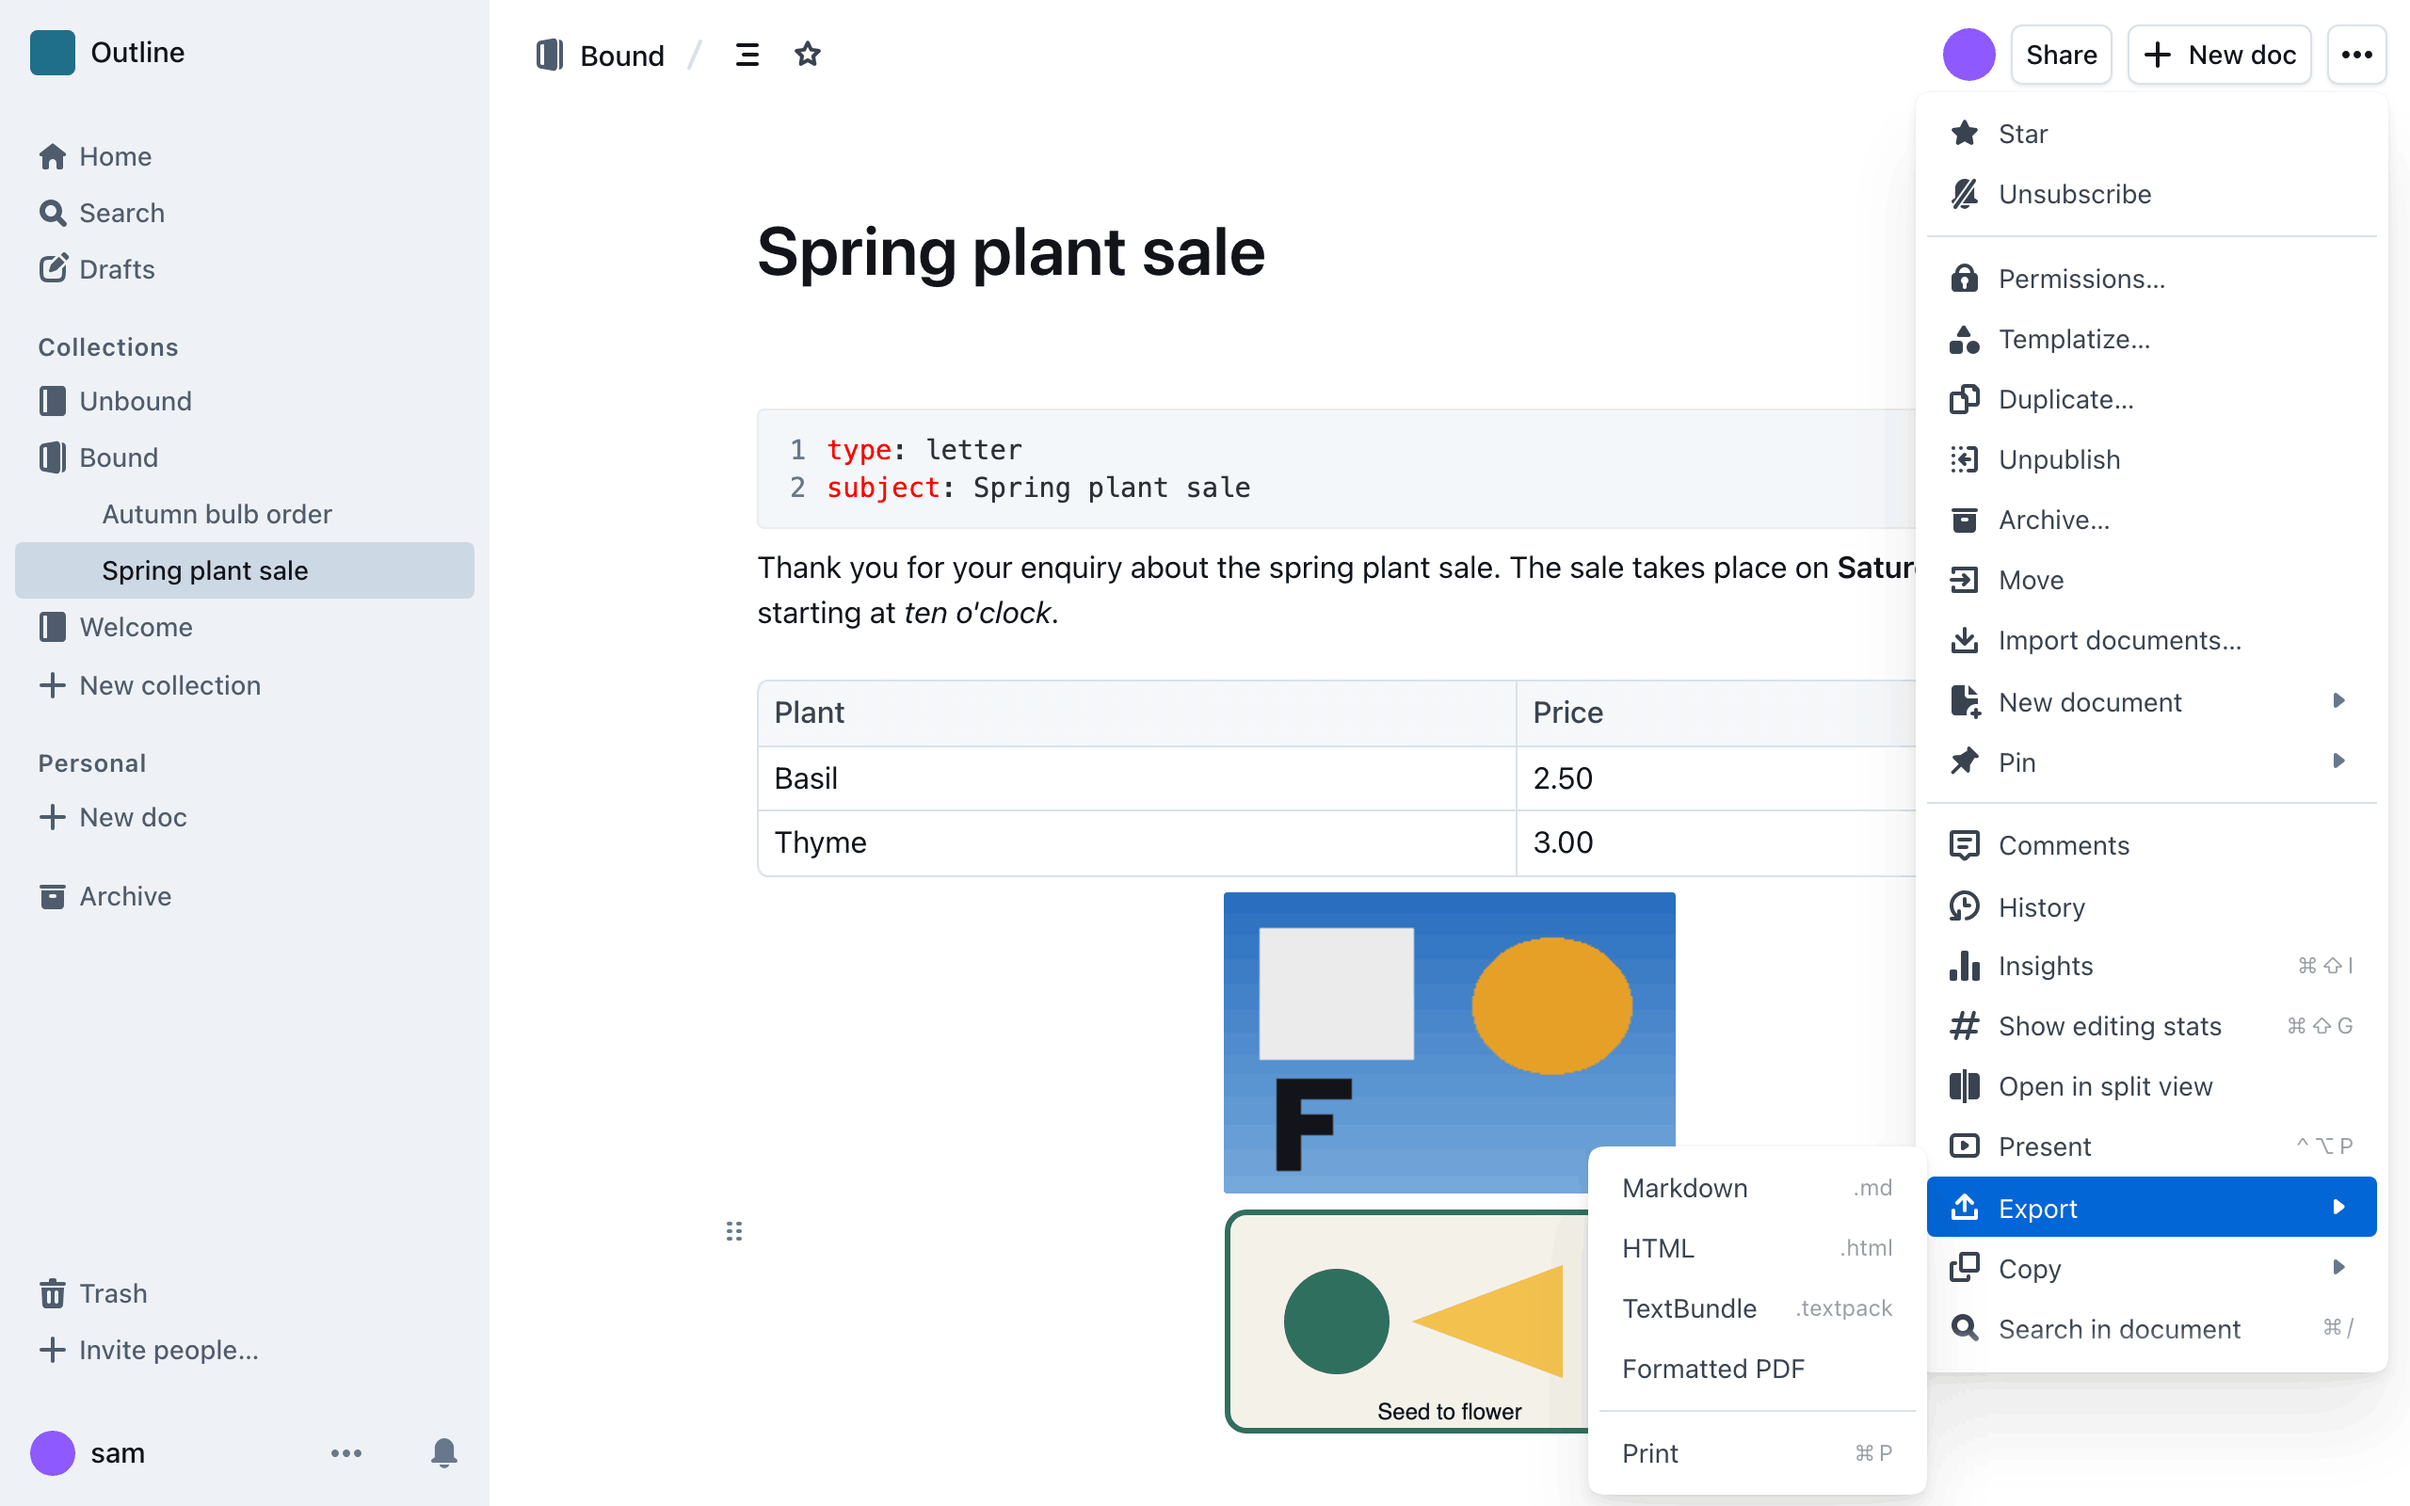
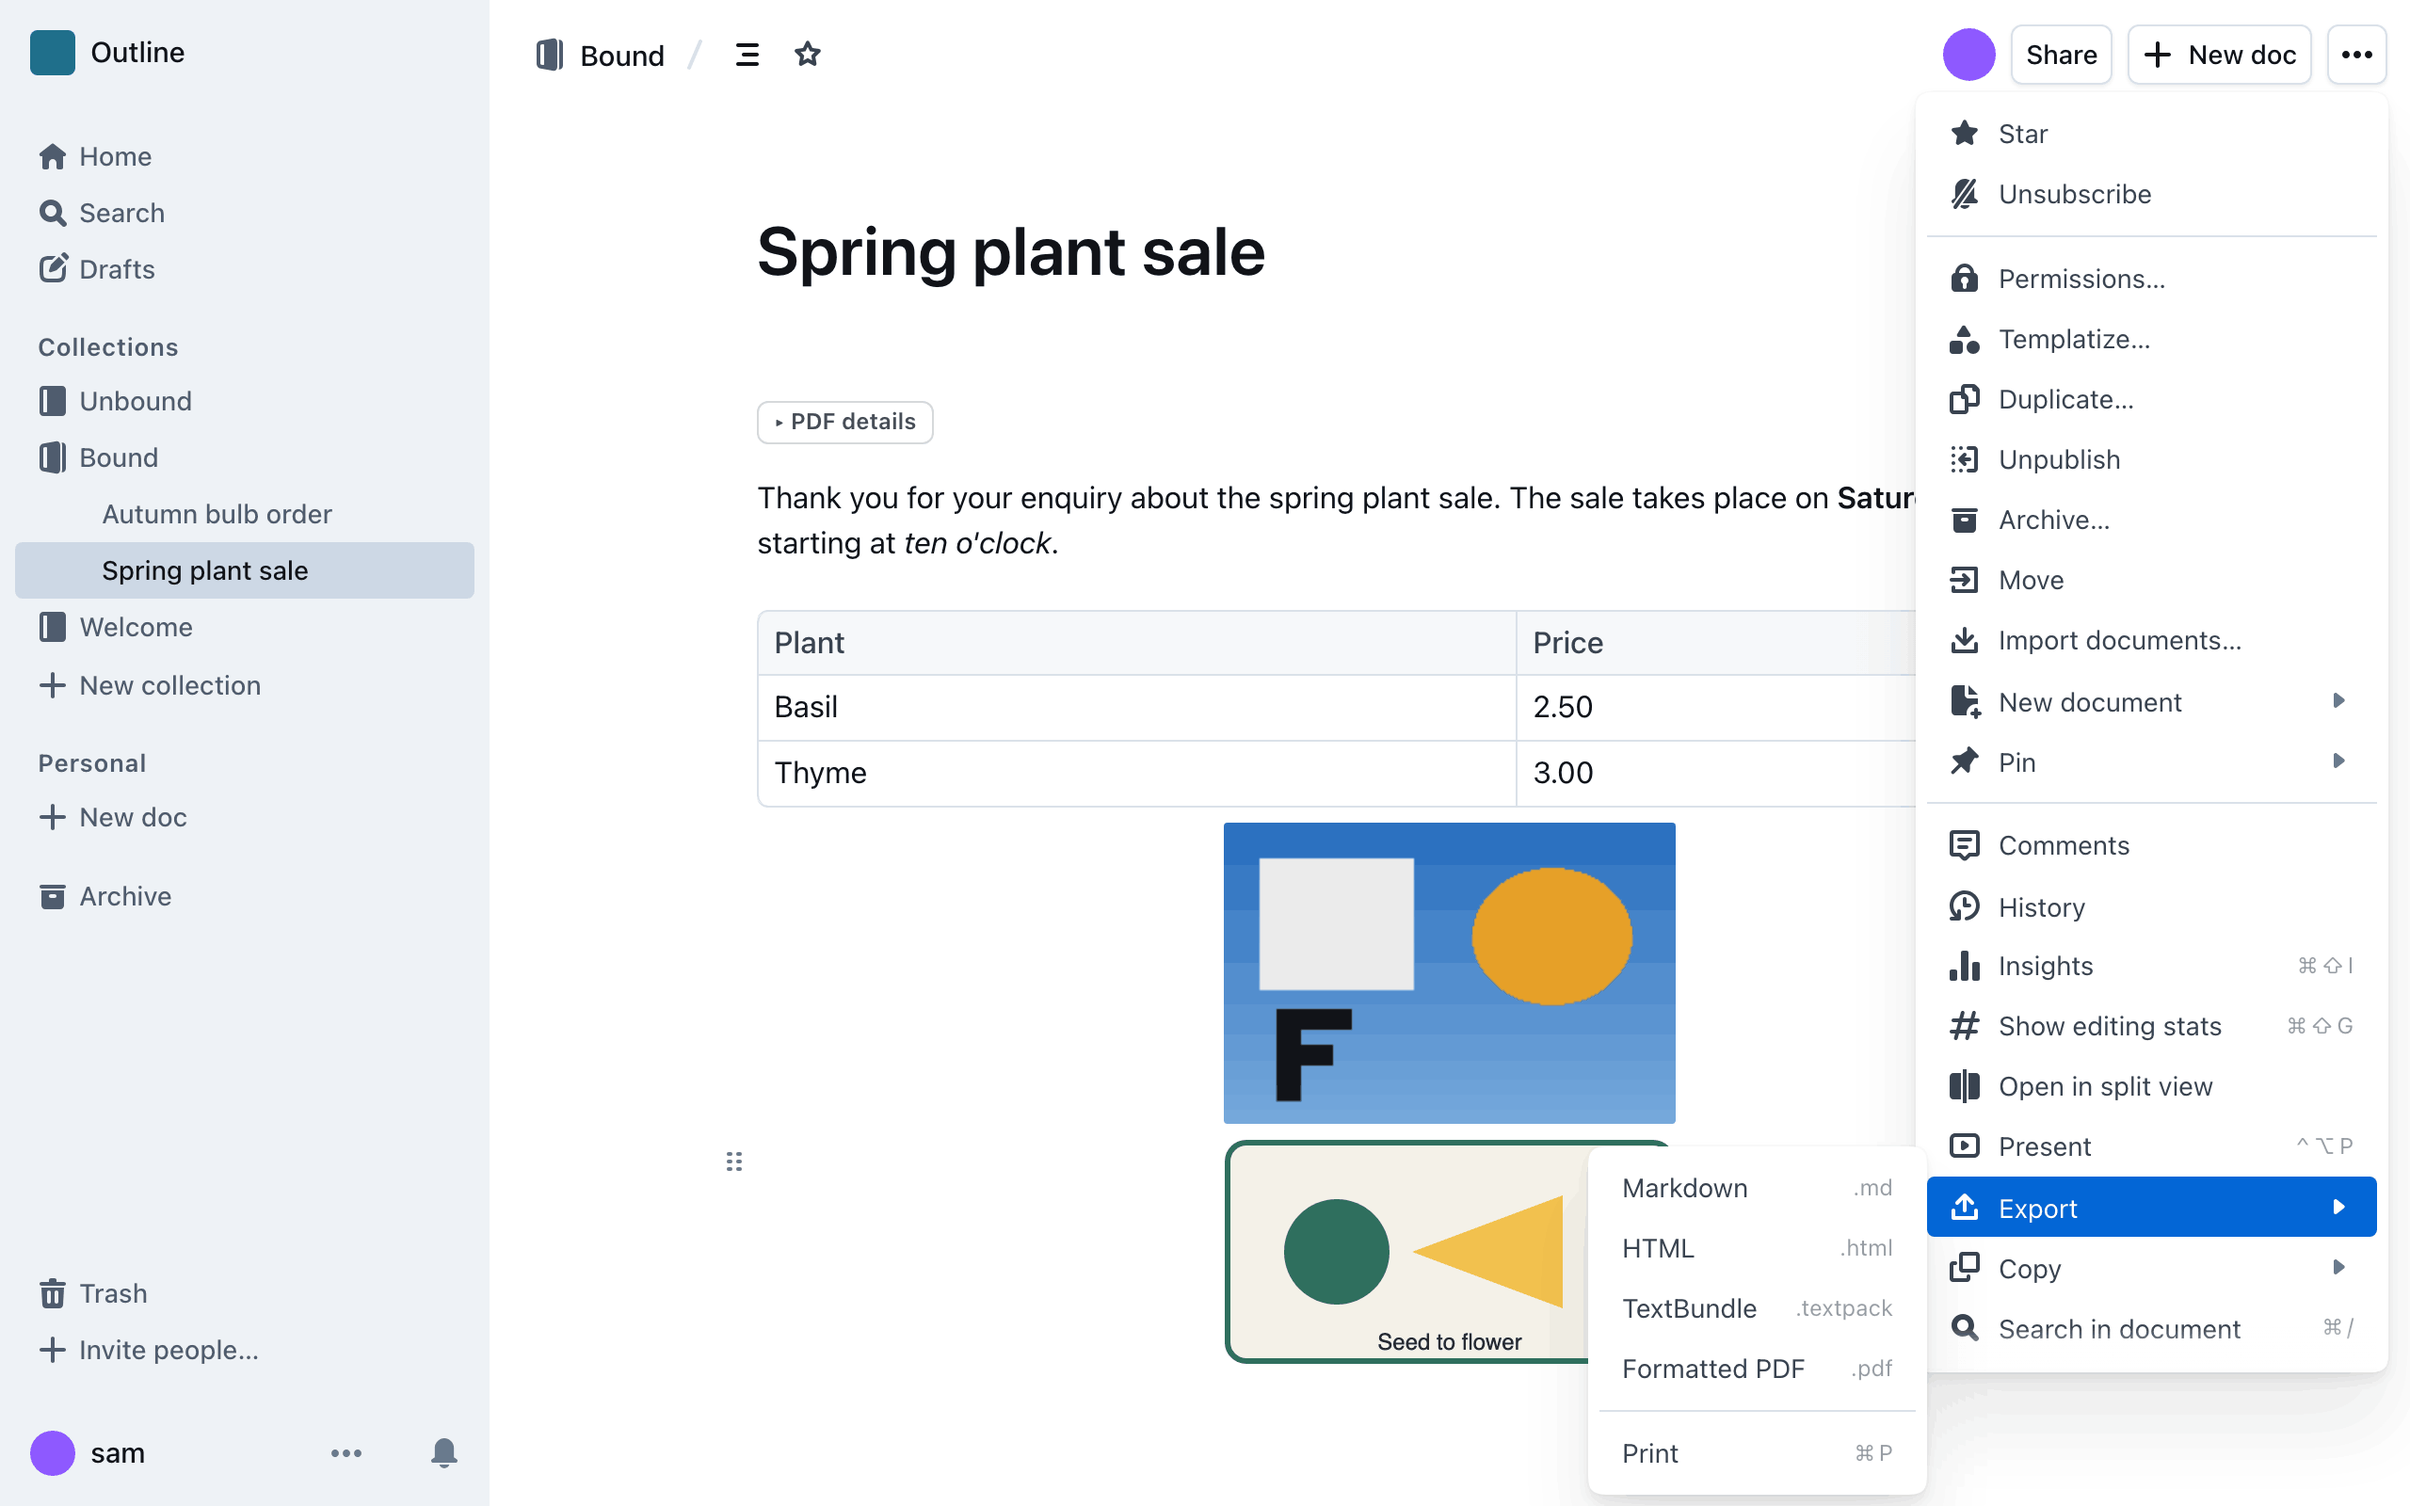
docs: refresh the screenshots with the changes from #88 and #89

Changed region(s): [[0.3125, 0.25, 0.7812, 0.9688]]

diff --git a/e2e/screenshots/screens.spec.ts b/e2e/screenshots/screens.spec.ts
@@ -16,6 +16,7 @@ const ERROR_PANEL = '[role="alert"]';
 const DOCUMENT_TITLE = '[role="textbox"][aria-label="Document title"]';
 const COLLECTION_TITLE = 'span[role="textbox"]';
 const CODE_BLOCK = '.ProseMirror pre';
+const METADATA_TOGGLE = '#olp-metadata-toggle';
 const FIRST_PARAGRAPH = '.ProseMirror p:not(.caption)';
 const PADDING = 16;
 // The Collection icon sits left of the title textbox.
@@ -138,9 +139,12 @@ test('screenshots of the Outline UI for the documentation', async ({ page }) => 
   await page.keyboard.press('Escape');
   await page.mouse.move(130, 540);
 
-  // The leading Metadata Block with a line of body text below it. The title
-  // is left out: the hidden byline would leave a gap between the two.
-  const metadata = await around(page, [CODE_BLOCK, FIRST_PARAGRAPH]);
+  // The leading Metadata Block with a line of body text below it. Authors see
+  // it folded behind a toggle: unfold it for the picture. The title is left
+  // out: the hidden byline would leave a gap between the two.
+  await page.locator(METADATA_TOGGLE).click();
+  await expect(page.locator(CODE_BLOCK).first()).toBeVisible();
+  const metadata = await around(page, [METADATA_TOGGLE, CODE_BLOCK, FIRST_PARAGRAPH]);
   await shot(page, 'document-metadata-block.png', metadata);
 
   // The example letter: the PDF of this document, first page.
